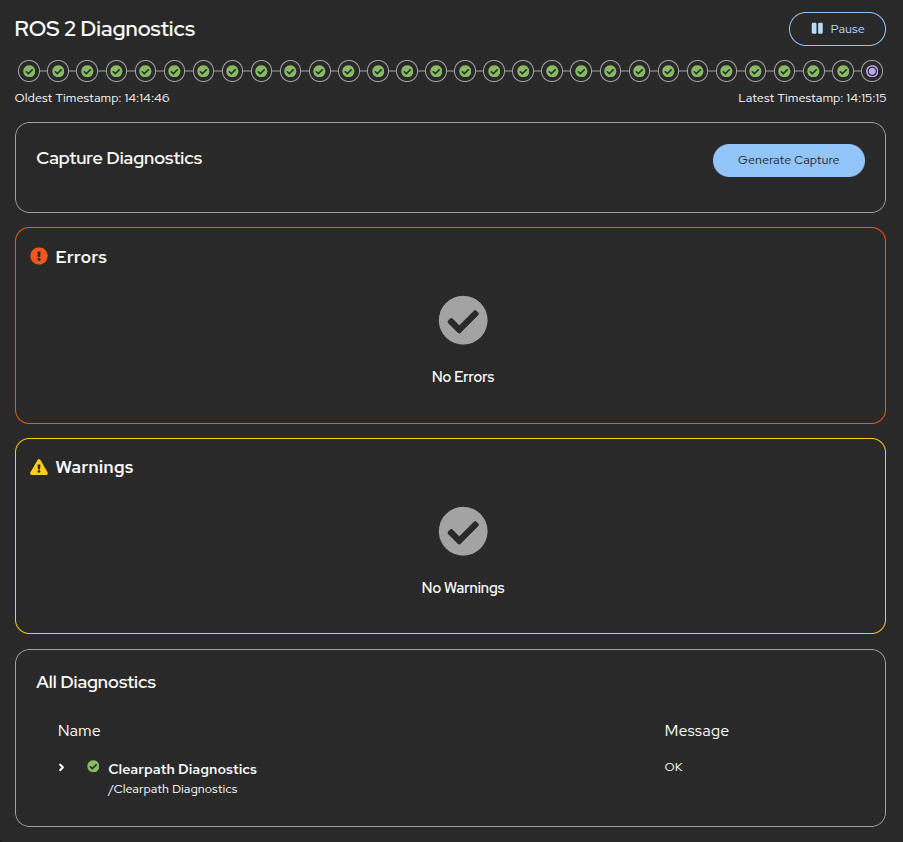
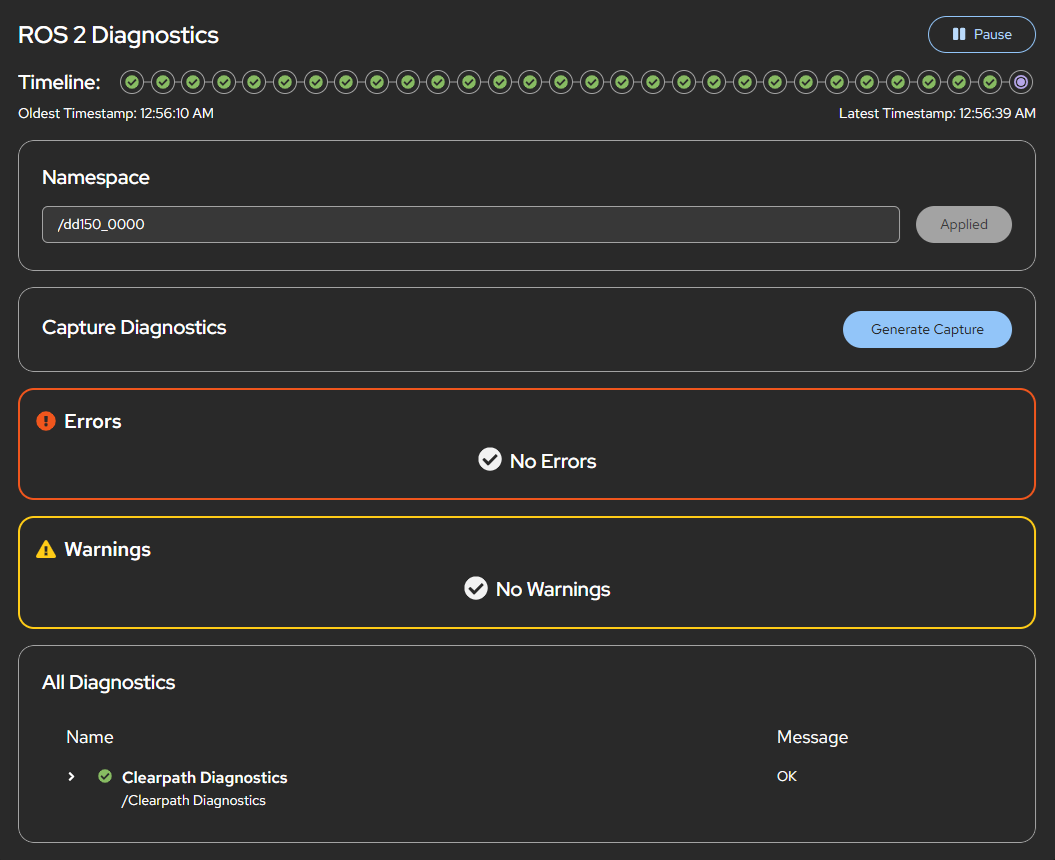
Fix/update readme (#60)
* Clearly state that https is not yet supported (requires secure websocket, not a reverse proxy)

* Updated screenshot

* Clarify wording and remove irrelevant sections

diff --git a/README.md b/README.md
@@ -1,16 +1,16 @@
 # Cockpit ROS 2 Diagnostics
 
-This is a Cockpit module that is intended to be installed alongside [Cockpit](https://cockpit-project.org/) and connects to the [foxglove bridge](https://docs.foxglove.dev/docs/connecting-to-data/ros-foxglove-bridge)
+This is a Cockpit application that is intended to be installed alongside [Cockpit](https://cockpit-project.org/) and connects to the [foxglove bridge](https://docs.foxglove.dev/docs/connecting-to-data/ros-foxglove-bridge)
 
-This module is built on the cockpit starter kit: https://github.com/cockpit-project/starter-kit and using modified code files from https://github.com/tier4/roslibjs-foxglove.
+This application is built on the Cockpit starter kit (https://github.com/cockpit-project/starter-kit) and using modified code files from https://github.com/tier4/roslibjs-foxglove.
 
 ![Screenshot of Main View](screenshots/ScreenshotPluginHome.png)
 
 # Installation instructions
 
-This is installed and running automatically on Clearpath Robots without any manual installation required.
+This is installed and running automatically on Clearpath Robots without any manual installation required. For all other ROS computers, proceed with the following instructions.
 
-The following instructions should be completed on the computer that is to be monitored and managed using the cockpit interface. In most cases this will be the robot computer.
+The following instructions should be completed on the computer that is to be monitored and managed using the Cockpit interface. In most cases this will be the robot computer.
 
 1. Install cockpit: https://cockpit-project.org/running.html#ubuntu
 
@@ -22,13 +22,13 @@ The following instructions should be completed on the computer that is to be mon
     sudo apt update
     ```
 
-3. Install this module and the foxglove bridge
+3. Install this module and the Foxglove bridge
 
     ```bash
     sudo apt install cockpit-ros2-diagnostics ros-$ROS_DISTRO-foxglove-bridge
     ```
 
-4. In order to open the UI on a remote computer and connect to the foxglove bridge, either this has to happen over an unsecured connection (http) or cockpit must be placed behind a reverse proxy. The currently supported option is to set cockpit up for an unsecure connection. Allow an unencrypted HTTP connection by creating the [cockpit.conf](https://cockpit-project.org/guide/latest/cockpit.conf.5) file and set `AllowUnencrypted=true` in the `WebService` section.
+4. In order to open the UI on a remote computer and connect to the Foxglove bridge, an unsecured connection (http) must be used. Allow an unencrypted HTTP connection by creating the [cockpit.conf](https://cockpit-project.org/guide/latest/cockpit.conf.5) file and set `AllowUnencrypted=true` in the `WebService` section. This is all done by running the following command:
 
     ```bash
     echo "[WebService]
@@ -37,15 +37,15 @@ The following instructions should be completed on the computer that is to be mon
 
 # Usage Instructions
 
-1. If not using with a Clearpath Robot then you will need to start your [foxglove bridge](https://docs.foxglove.dev/docs/connecting-to-data/ros-foxglove-bridge) manually. It must be launched with the default port (8765):
+1. If not using a Clearpath Robot then you will need to start your [Foxglove bridge](https://docs.foxglove.dev/docs/connecting-to-data/ros-foxglove-bridge) manually. It must be launched with the default port (8765):
 
     ```bash
     ros2 launch foxglove_bridge foxglove_bridge_launch.xml
     ```
 
-2. Open a supported browser and go to `http://<ip-address>:9090` but replace `<ip-address>` with the ip address or hostname of your robot computer. Remember to use the IP address for the network that over which you are connecting to the robot. In order for the websocket connection to work and successfully receive the ROS 2 topics, cockpit must be accessed over http. This is an unsecure connection but it is the simplest to configure. If a secure connection is required then cockpit must be setup behind a reverse proxy.
+2. Open a [supported browser](https://cockpit-project.org/running) and go to `http://<ip-address>:9090` but replace `<ip-address>` with the ip address or hostname of your robot computer. Remember to use the IP address for the network over which you are connecting to the robot. In order for the websocket connection to work and successfully receive the ROS 2 topics, cockpit must be accessed over http, which is an unsecure connection. **Setting up a secure connection over https is currently unsupported**, but contributions are welcome.
 
-3. Go to the ROS 2 Diagnostics tab
+3. Go to the ROS 2 Diagnostics tab.
 
 # Development and Source Instructions
 
@@ -150,7 +150,7 @@ Rules configuration can be found in the `.stylelintrc.json` file.
 
 ## Running tests locally
 
-** These tests are still under development **
+** **These tests are still under development** **
 
 To run the tests locally you must install:
 
@@ -180,63 +180,3 @@ It is possible to setup the test environment without running the tests:
 You can also run the test against a different Cockpit image, for example:
 
     TEST_OS=fedora-40 make check
-
-## Running tests in CI
-
-These tests can be run in [Cirrus CI](https://cirrus-ci.org/), on their free
-[Linux Containers](https://cirrus-ci.org/guide/linux/) environment which
-explicitly supports `/dev/kvm`. Please see [Quick
-Start](https://cirrus-ci.org/guide/quick-start/) how to set up Cirrus CI for
-your project after forking from starter-kit.
-
-The included [.cirrus.yml](./.cirrus.yml) runs the integration tests for two
-operating systems (Fedora and CentOS 8). Note that if/once your project grows
-bigger, or gets frequent changes, you may need to move to a paid account, or
-different infrastructure with more capacity.
-
-Tests also run in [Packit](https://packit.dev/) for all currently supported
-Fedora releases; see the [packit.yaml](./packit.yaml) control file. You need to
-[enable Packit-as-a-service](https://packit.dev/docs/packit-service/) in your GitHub project to use this.
-To run the tests in the exact same way for upstream pull requests and for
-[Fedora package update gating](https://docs.fedoraproject.org/en-US/ci/), the
-tests are wrapped in the [FMF metadata format](https://github.com/teemtee/fmf)
-for using with the [tmt test management tool](https://docs.fedoraproject.org/en-US/ci/tmt/).
-Note that Packit tests can *not* run their own virtual machine images, thus
-they only run [@nondestructive tests](https://github.com/cockpit-project/cockpit/blob/main/test/common/testlib.py).
-
-## Automated release of tarballs on Github
-
-Once your cloned project is ready for a release, you should consider automating
-that. The intention is that the only manual step for releasing a project is to create
-a signed tag for the version number, which includes a summary of the noteworthy
-changes:
-
-```
-123
-
-- this new feature
-- fix bug #123
-```
-
-Pushing the release tag triggers the [release.yml](.github/workflows/release.yml.disabled)
-[GitHub action](https://github.com/features/actions) workflow. This creates the
-official release tarball and publishes as upstream release to GitHub. The
-workflow is disabled by default -- to use it, edit the file as per the comment
-at the top, and rename it to just `*.yml`.
-
-The Fedora and COPR releases are done with [Packit](https://packit.dev/),
-see the [packit.yaml](./packit.yaml) control file.
-
-## Automated maintenance
-
-It is important to keep your [NPM modules](./package.json) up to date, to keep
-up with security updates and bug fixes. This happens with
-[dependabot](https://github.com/dependabot),
-see [configuration file](.github/dependabot.yml).
-
-## Further reading
-
- * The [Starter Kit announcement](https://cockpit-project.org/blog/cockpit-starter-kit.html)
-   blog post explains the rationale for this project.
- * [Cockpit Deployment and Developer documentation](https://cockpit-project.org/guide/latest/)
- * [Make your project easily discoverable](https://cockpit-project.org/blog/making-a-cockpit-application.html)
